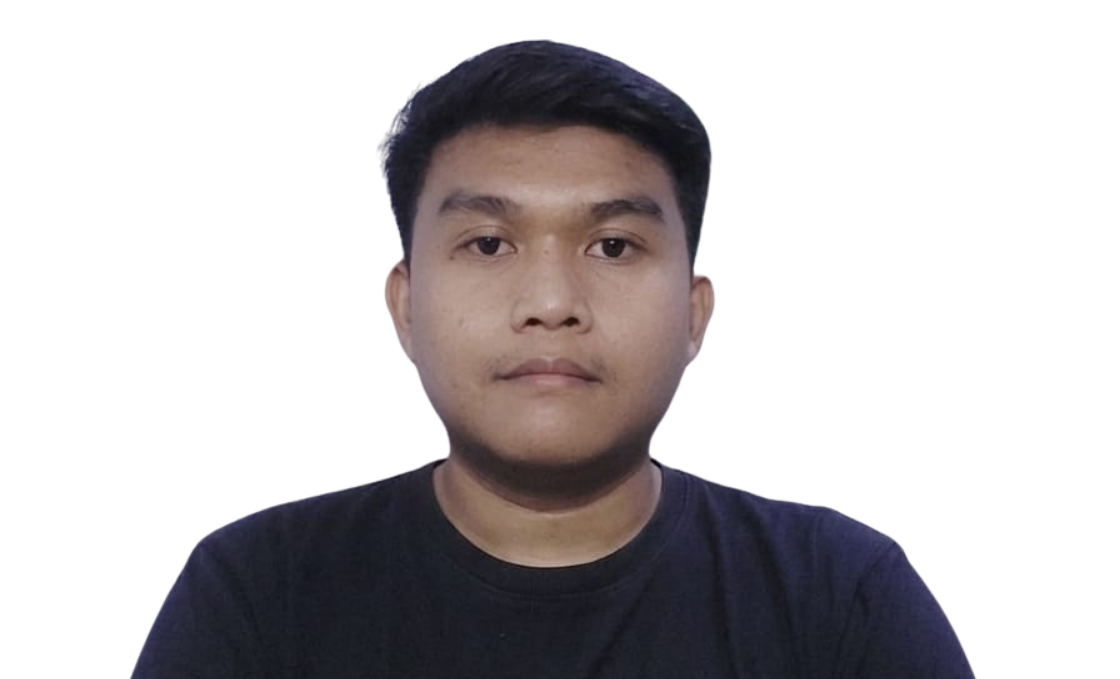
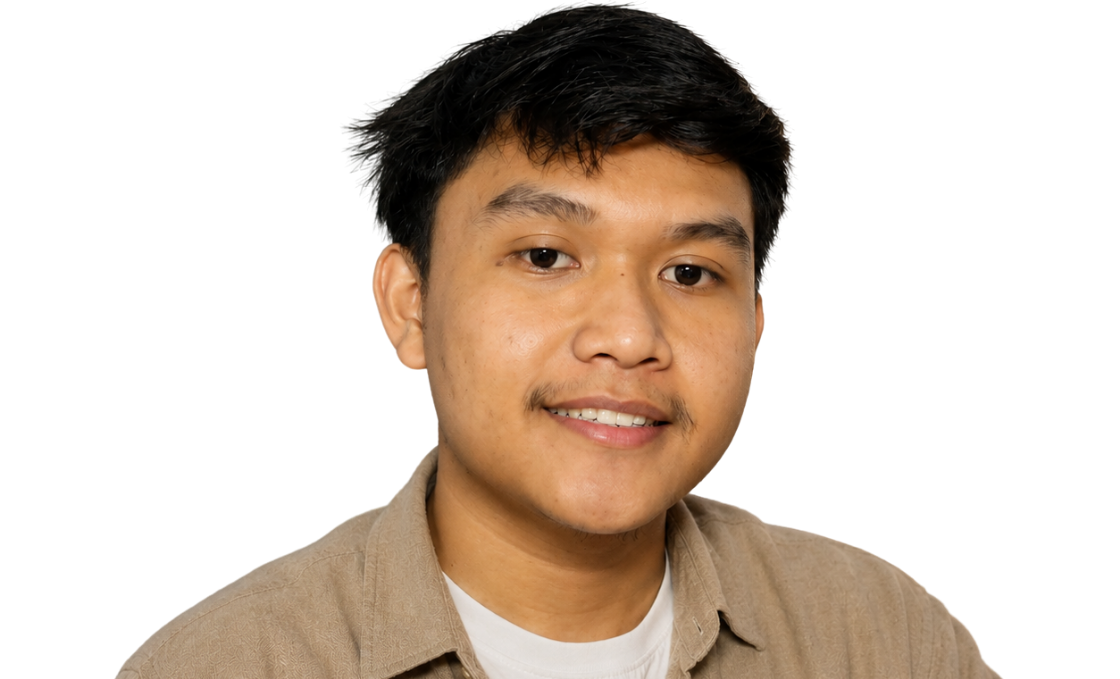
change hero-img and cv in hero section

diff --git a/src/components/Hero.tsx b/src/components/Hero.tsx
@@ -232,7 +232,7 @@ export default function Hero() {
               height={820}
               loading="eager"
               fetchPriority="high"
-              className="w-[320px] sm:w-[420px] md:w-[500px] lg:w-[620px] xl:w-[720px] 2xl:w-[820px] max-w-none h-auto object-contain grayscale transition-transform duration-500 group-hover:scale-[1.02] drop-shadow-2xl"
+              className="w-[320px] sm:w-[420px] md:w-[500px] lg:w-[620px] xl:w-[720px] 2xl:w-[820px] max-w-none h-auto object-contain transition-transform duration-500 group-hover:scale-[1.02] drop-shadow-2xl"
             />
           </div>
         </div>
